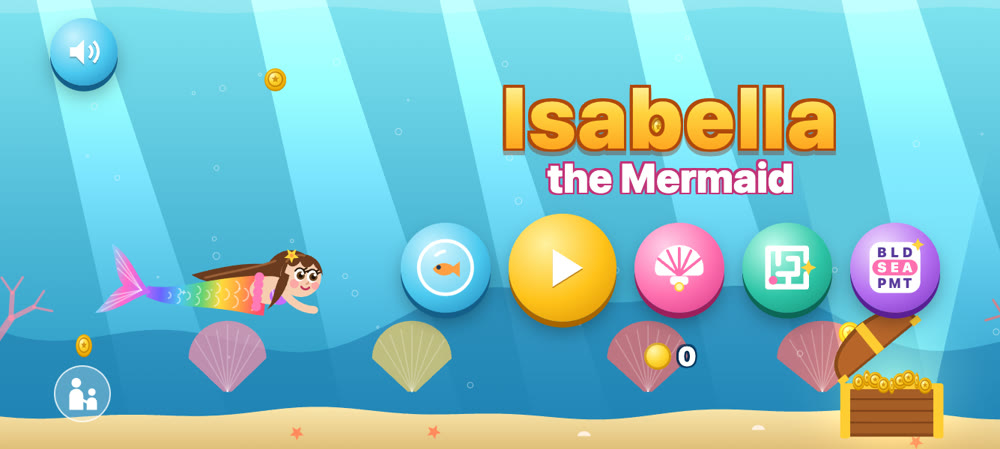
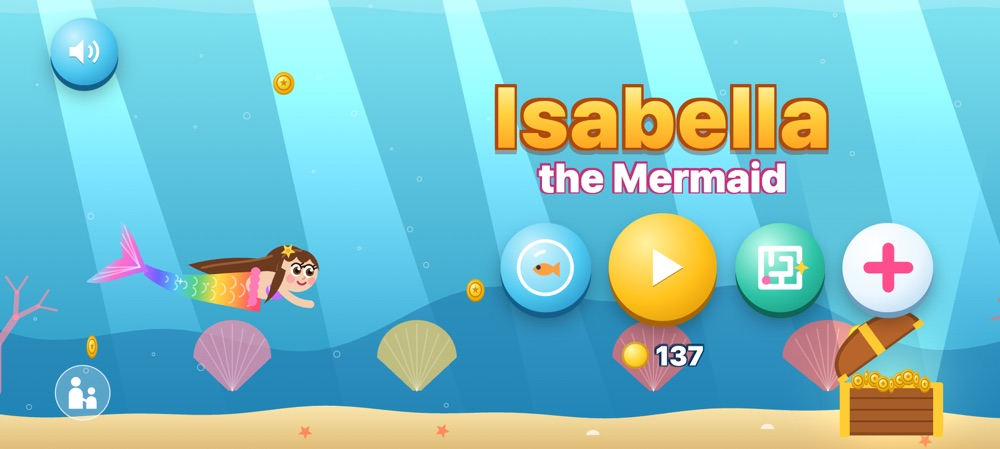
Snapshot of private 1917e08

diff --git a/site/index.html b/site/index.html
@@ -13,27 +13,31 @@
   <div class="wrap">
     <div class="brand"><img src="icon.png" alt=""> Isabella Ocean</div>
     <h1>Ocean games for little ones.<br>No ads. No accounts.</h1>
-    <p class="lead">Five calm, colourful games for kids aged 3 to 8 on the Solana Seeker. They play offline, nothing about your child is collected, and nothing pops up asking them to buy things.</p>
+    <p class="lead">Nine calm, colourful games for kids aged 3 to 8 on the Solana Seeker. They play offline, nothing about your child is collected, and nothing pops up asking them to buy things.</p>
     <ul class="pills"><li>Ages 3–8</li><li>Plays offline</li><li>No ads, no tracking</li><li>No reading needed</li></ul>
-    <img class="shot" src="img/title.jpg" alt="The Isabella Ocean title screen: Isabella the mermaid with five game buttons">
+    <img class="shot" src="img/title.jpg" alt="The Isabella Ocean title screen: Isabella the mermaid, a big Play button, two game buttons and a plus button for more games">
   </div>
 </header>
 
 <main class="wrap">
   <section>
-    <h2>Five games</h2>
+    <h2>Nine games</h2>
     <div class="grid">
       <div class="card"><img src="img/pop.jpg" alt="Bubble Party: a fish bubble dragged home to the fish on the sand"><h3>Bubble Party <span class="age">3–5</span></h3><p>Drag each sea creature's bubble home to its picture on the sand. Ten saved make a coin, and every level ends in a treasure chest. Leave the grumpy ones be!</p></div>
       <div class="card"><img src="img/title.jpg" alt="Isabella the Mermaid"><h3>Isabella the Mermaid <span class="age">5–8</span></h3><p>Swim through 20 levels, find the key and open the treasure chest. Ten levels are free.</p></div>
       <div class="card"><img src="img/match.jpg" alt="Shell Match: a memory game with clam shells"><h3>Shell Match <span class="age">5–8</span></h3><p>A memory game with clam shells, from 2 to 10 pairs, with stars for fewer mistakes.</p></div>
       <div class="card"><img src="img/maze.jpg" alt="Coral Maze: a big coral maze with keys, gates and currents"><h3>Coral Maze <span class="age">5–8+</span></h3><p>Help Isabella swim out of coral mazes. Twenty Easy levels, then twenty big Hard ones with keys, gates, currents and dark water.</p></div>
       <div class="card"><img src="img/words.jpg" alt="Sea Words: a word search where every word has its picture"><h3>Sea Words <span class="age">5–8</span></h3><p>A picture word search: find TURTLE, PEARL or CHEST by drawing a line. Easy, medium and hard, and a new puzzle every time.</p></div>
+      <div class="card"><img src="img/blocks.jpg" alt="Treasure Blocks: sea blocks sinking into a well in front of a misty picture of Isabella"><h3>Treasure Blocks <span class="age">5–8+</span></h3><p>Slide and turn the sinking sea blocks to fill a row. Every row cleared pays a coin and lifts the mist from a picture of Isabella. Easy, medium and hard, and Easy never ends.</p></div>
+      <div class="card"><img src="img/jigsaw.jpg" alt="Sea Jigsaw: a half-finished jigsaw of reef fish, with loose pieces waiting in a tray"><h3>Sea Jigsaw <span class="age">3–8</span></h3><p>Thirty sea pictures cut into real jigsaw pieces, from 4 pieces up to 40. Drag a piece near its place and it snaps home. No piece can be lost.</p></div>
+      <div class="card"><img src="img/dash.jpg" alt="Splash Dash: Isabella swimming along the surface at sunset, past kelp, a gull and a sailing boat"><h3>Splash Dash <span class="age">5–8</span></h3><p>Tilt the phone to steer Isabella along the surface, past rocks, kelp and boats, to the treasure chest. Twenty courses, and a button to go faster.</p></div>
+      <div class="card"><img src="img/catch.jpg" alt="Sea Catch: Isabella catching a whale's bubble in the shell on her head"><h3>Sea Catch <span class="age">3–8</span></h3><p>Slide Isabella left and right to catch the falling sea friends in her shell, and dodge the grumps. Ten levels, and none of them can be failed.</p></div>
     </div>
   </section>
 
   <section>
     <h2>Unlock everything, your way</h2>
-    <p>Bubble Party, Shell Match, Coral Maze, Sea Words and Isabella's first ten levels are free. A grown-up can unlock the rest behind a parent gate (press and hold, then a quick multiplication), so children never see a wallet or a payment.</p>
+    <p>Eight of the nine games are free from start to finish, and so are the first ten levels of Isabella the Mermaid. The only thing to unlock is her second world, levels 11 to 20. A grown-up unlocks it behind a parent gate (press and hold, then a quick multiplication), so children never see a wallet or a payment.</p>
     <div class="two">
       <div class="card opt">
         <h3>Stake 1 SOL, get it back any time</h3>
@@ -48,7 +52,7 @@
       </div>
       <div class="card opt pay">
         <h3>Or pay once</h3>
-        <p>US$15, one time, with no subscription.</p>
+        <p>US$4.99, one time, with no subscription.</p>
         <ul class="tick">
           <li>Pay with SOL, USDC or another token your wallet holds; it is converted to the exact price.</li>
           <li>You see the exact amount in your wallet before you approve.</li>

diff --git a/web/payments.js b/web/payments.js
@@ -685,7 +685,7 @@
       '" font-family="sans-serif" font-size="' + (text.length > 3 ? 15 : 19) + '" font-weight="700" fill="#fff" text-anchor="middle">' + text + '</text></svg>');
   }
 
-  function usdcUnits() { return BigInt(Math.round(Number(cfg.priceUsd) * 1e6)); } // USDC has 6 decimals
+  function usdcUnits() { return entitlement().priceUnits(6); } // USDC has 6 decimals; exact base units (US$4.99 -> 4990000n), the same amount the purchase check requires
   function normalizeMint(mint) { return !mint || mint === 'SOL' ? SOL_MINT : String(mint); }
   function referenceMeta(reference) { return { pubkey: new PublicKey(reference), isSigner: false, isWritable: false }; }
   /** A 0-lamport transfer to the merchant that carries the read-only reference key (Solana Pay style). */
@@ -811,7 +811,7 @@
     const mint = new PublicKey(m.usdcMint);
     const merchantAta = new PublicKey(m.usdcAta);
     const { decimals, tokenProgram } = await mintDecimals(c, mint);
-    const amount = BigInt(Math.round(Number(cfg.priceUsd) * 10 ** decimals));
+    const amount = entitlement().priceUnits(decimals);
     const source = splToken.getAssociatedTokenAddressSync(mint, owner, true, tokenProgram);
     if (!skipChecks) {
       const [bal, dest] = await Promise.all([c.getTokenAccountBalance(source, 'confirmed').catch(() => null), rpc(() => c.getAccountInfo(merchantAta, 'confirmed'), 'merchant')]);
@@ -941,7 +941,7 @@
           const res = await rpc(() => c.getParsedTokenAccountsByOwner(owner, { mint: new PublicKey(m.usdcMint) }, 'confirmed'), 'token accounts');
           const raw = res.value.reduce((a, x) => a + BigInt(x.account.data.parsed.info.tokenAmount.amount), 0n);
           list[1].balance = Number(raw) / 1e6;
-          list[1].enough = list[1].balance >= list[1].amountNeeded;
+          list[1].enough = raw >= usdcUnits();
         }
       }
       return list;
@@ -979,7 +979,8 @@
       const amountNeeded = isUsdc ? Number(cfg.priceUsd) : Math.ceil((Number(cfg.priceUsd) / t.usdPrice) * 1.01 * unit) / unit; // 1% for slippage
       const balance = Number(h.raw) / unit;
       const reserveSol = t.id === SOL_MINT ? 0.005 : 0; // fees and a possible token account
-      out.push({ mint: t.id, symbol: t.symbol, logo: logoFor(t.id, t.symbol), decimals: t.decimals, usdPrice: t.usdPrice, amountNeeded, balance, enough: balance >= amountNeeded + reserveSol });
+      const enough = isUsdc ? h.raw >= entitlement().priceUnits(t.decimals) : balance >= amountNeeded + reserveSol; // USDC is compared in base units
+      out.push({ mint: t.id, symbol: t.symbol, logo: logoFor(t.id, t.symbol), decimals: t.decimals, usdPrice: t.usdPrice, amountNeeded, balance, enough });
     }
     const rank = (x) => (x.mint === SOL_MINT ? 2 : x.mint === m.usdcMint ? 1 : 0);
     return out.sort((a, b) => (b.enough - a.enough) || (rank(b) - rank(a)) || (b.balance * b.usdPrice - a.balance * a.usdPrice));

diff --git a/web/entitlement.js b/web/entitlement.js
@@ -22,6 +22,7 @@
  * sha256("isabella-purchase-v1" + walletBase58) -> 32 bytes -> public key. refresh() finds purchases with
  * getSignaturesForAddress(reference) and accepts a finalized, successful transaction that raised the
  * merchant's USDC account by >= priceUsd, or (devnet only) the merchant wallet by >= devnetPriceSol.
+ * The test is "at least the price", so a purchase made at an earlier, higher price still counts.
  */
 (function () {
   'use strict';
@@ -126,6 +127,16 @@
     return BigInt(Math.round(Number(cfg.stake.unlockThreshold) * 10 ** decimals));
   }
 
+  /**
+   * config.priceUsd in a token's base units, exactly. The price is read as a decimal string and never
+   * multiplied as a float: 4.99 with 6 decimals is 4990000n. payments.js charges this same amount.
+   */
+  function priceUnits(decimals) {
+    const m = /^(\d+)(?:\.(\d*))?$/.exec(String(cfg.priceUsd).trim());
+    if (!m || (m[2] || '').length > decimals) return BigInt(Math.round(Number(cfg.priceUsd) * 10 ** decimals)); // exponent form, or finer than the token
+    return BigInt(m[1] + (m[2] || '').padEnd(decimals, '0'));
+  }
+
   /** Did this transaction pay the merchant enough (and carry the reference)? Returns { kind, amount } or null. */
   function verifyPurchaseTransaction(tx, referenceBase58) {
     if (!tx || !tx.meta || tx.meta.err) return null;
@@ -142,7 +153,7 @@
         if (!isMerchant) continue;
         const before = pre.find((x) => x.accountIndex === pb.accountIndex);
         const delta = BigInt(pb.uiTokenAmount.amount) - BigInt(before ? before.uiTokenAmount.amount : '0');
-        const need = BigInt(Math.round(Number(cfg.priceUsd) * 10 ** pb.uiTokenAmount.decimals));
+        const need = priceUnits(pb.uiTokenAmount.decimals);
         if (delta >= need) return { kind: 'usdc', amount: Number(delta) / 10 ** pb.uiTokenAmount.decimals };
       }
     }
@@ -305,6 +316,7 @@
     findPurchase,
     poolTokenBalance,
     verifyPurchaseTransaction,
+    priceUnits,
     STORE_KEY,
     _env: env,
   };

diff --git a/site/privacy.html b/site/privacy.html
@@ -12,7 +12,7 @@
 <main class="wrap">
 <article class="doc">
   <h1>Privacy policy</h1>
-  <p class="updated">Last updated 3 October 2026</p>
+  <p class="updated">Last updated 4 October 2026</p>
 
   <p>Isabella Ocean ("we") makes games for children aged 3 to 8 on the Solana Seeker phone. We built them to collect nothing about your child or your family. This page explains exactly what happens.</p>
 
@@ -23,10 +23,10 @@
   <p>Game progress (levels, stars and coins) and your unlock status are saved only on the phone, inside the app. They are deleted when you uninstall the app.</p>
 
   <h2>When a grown-up connects a wallet</h2>
-  <p>Unlocking the full games is optional and happens only behind a parent gate. If a grown-up connects a Solana wallet:</p>
+  <p>Unlocking the extra levels is optional and happens only behind a parent gate. If a grown-up connects a Solana wallet:</p>
   <ul>
     <li>The app learns that wallet's public address, which is already public on the Solana blockchain. It keeps it on the phone only.</li>
-    <li>To check whether the games are unlocked, the app asks a Solana network server (an "RPC" server) about that address's public balances and past payments to us. Like any website, that server sees the request and the phone's internet address. We do not run that server and do not receive this information.</li>
+    <li>To check whether the extra levels are unlocked, the app asks a Solana network server (an "RPC" server) about that address's public balances and past payments to us. Like any website, that server sees the request and the phone's internet address. We do not run that server and do not receive this information.</li>
     <li>Staking and payments are blockchain transactions you approve in your own wallet. They are public on the Solana blockchain by design.</li>
   </ul>
 

diff --git a/test/paywall/drive.js b/test/paywall/drive.js
@@ -172,7 +172,7 @@ async function freeTierGateAndStake() {
   check((await on('pwPay')) && !(await on('pwGate')), `right answer (${p2.q} = ${p2.ans}) opens the paywall`);
 
   const pw = await text('#pwPayBody');
-  const need = ['Stake 1 SOL', 'get it back any time', 'Pay US$15 once', 'any token', 'staking rewards (about 5% a year)',
+  const need = ['Stake 1 SOL', 'get it back any time', 'Pay US$4.99 once', 'any token', 'staking rewards (about 5% a year)',
     "value still moves with SOL's price", 'Getting your SOL back locks World 2 again', 'Instant exit costs 0.3%', 'Free exit takes about 2 days'];
   const missing = need.filter((s) => !pw.includes(s));
   check(!missing.length, `paywall shows both options and the plain disclosures${missing.length ? `; missing: ${missing.join(' | ')}` : ''}`);
@@ -247,13 +247,13 @@ async function manageStakedAndExitNow() {
 }
 
 async function buyDisconnectRestore() {
-  console.log('\n# Pay US$15 once -> unlocked; disconnect; restore purchase');
+  console.log('\n# Pay US$4.99 once -> unlocked; disconnect; restore purchase');
   await cdp.tap(tile(11)); await cdp.tap('#pwAskGo');
   await passGate();
   await cdp.tap('#pwPay [data-act=buy]');
   await cdp.waitFor("document.querySelectorAll('#pwPay .tok').length", 5000, 'the token list');
   const toks = await ev("[...document.querySelectorAll('#pwPay .tok')].map((b) => b.textContent.trim())");
-  check(toks.length === 2 && toks[0].includes('SOL') && toks[1] === '15 USDC', `payableTokens -> pick a token (${toks.join(', ')})`);
+  check(toks.length === 2 && toks[0].includes('SOL') && toks[1] === '4.99 USDC', `payableTokens -> pick a token (${toks.join(', ')})`);
   await audit('pick a token');
   await shot('pay-pick-token');
   await cdp.tap('#pwPay [data-act=pick][data-i="1"]');

diff --git a/site/terms.html b/site/terms.html
@@ -12,12 +12,12 @@
 <main class="wrap">
 <article class="doc">
   <h1>Terms of use</h1>
-  <p class="updated">Last updated 3 October 2026</p>
+  <p class="updated">Last updated 4 October 2026</p>
 
   <p>These terms cover the Isabella Ocean app ("the app") and its optional unlocks. By using the app you agree to them. If you are unlocking the games, you confirm you are an adult.</p>
 
   <h2>The app</h2>
-  <p>We give you a personal, non-transferable licence to use the app on your devices. Some levels and games are free; the rest unlock in one of the two ways below.</p>
+  <p>We give you a personal, non-transferable licence to use the app on your devices. Eight of the nine games, and the first ten levels of Isabella the Mermaid, are free. Her second world (levels 11 to 20) unlocks in one of the two ways below.</p>
 
   <h2>Unlock option 1: stake 1 SOL</h2>
   <ul>
@@ -32,7 +32,7 @@
 
   <h2>Unlock option 2: pay once</h2>
   <ul>
-    <li>A one-time payment of US$15, made in SOL, USDC or another supported token and converted on the Solana network to the exact price in USDC. Your wallet shows the exact amount before you approve.</li>
+    <li>A one-time payment of US$4.99, made in SOL, USDC or another supported token and converted on the Solana network to the exact price in USDC. Your wallet shows the exact amount before you approve.</li>
     <li>A paid unlock does not expire. If you reinstall the app, connecting the same wallet restores it.</li>
     <li>Payments are final, except where the law gives you a right to a refund.</li>
   </ul>

diff --git a/web/paymock.js b/web/paymock.js
@@ -23,7 +23,7 @@
   const cfg = window.IsabellaConfig = window.IsabellaConfig || {
     flavor: window.IsabellaFlavor || 'store',
     cluster: 'devnet', chain: 'solana:devnet', rpcUrl: 'https://api.devnet.solana.com',
-    freeLevels: 10, priceUsd: 15,
+    freeLevels: 10, priceUsd: 4.99,
     stake: { programId: '', pool: '', mint: '', depositSol: 1.01, unlockThreshold: 0.99, instantFeePct: 0.3 },
     merchant: { wallet: '', usdcMint: '', usdcAta: '' },
     jupiter: { apiBase: 'https://api.jup.ag', apiKey: '' },
@@ -48,7 +48,7 @@
     walletAvailable: true,
     publicKey: null,
     poolTokens: 0,          // on-chain: the parent's pool tokens
-    purchased: false,       // on-chain: a finalized US$15 payment with the parent's reference key
+    purchased: false,       // on-chain: a finalized US$4.99 payment with the parent's reference key
     pending: [],            // on-chain: the parent's deactivating stake accounts {stakeAccount, lamports, readyAt}
     cache: null,            // the phone's last SUCCESSFUL check {unlocked, via, wallet, checkedAt}
     lastCheckFailed: false,

diff --git a/web/paywall.js b/web/paywall.js
@@ -1,5 +1,5 @@
 /* Isabella the Mermaid — the free tier and the grown-ups' screens (store flavor only).
- * World 1 (levels 1-10) is free. World 2 opens when a grown-up stakes 1 SOL or pays US$15 once,
+ * World 1 (levels 1-10) is free. World 2 opens when a grown-up stakes 1 SOL or pays US$4.99 once,
  * through window.Wallet / IsabellaPay / IsabellaEntitlement (Contract 2 in docs/kids-bundle/BUILD-PLAN.md).
  * - Kids only ever see pictures: a gold padlock, and "ask a grown-up" with a big button.
  * - Every wallet action sits behind the parent gate: hold 3 s, then a 2-digit x 1-digit multiplication.
@@ -28,7 +28,7 @@
   const W = () => window.Wallet || null;
   const canPay = () => !!(E() && Pay() && W());
   const freeLevels = () => +cfg().freeLevels || 10;
-  const priceUsd = () => +cfg().priceUsd || 15;
+  const priceUsd = () => +cfg().priceUsd || 4.99;
   const depositSol = () => +(cfg().stake && cfg().stake.depositSol) || 1.01;
   const feePct = () => { const f = cfg().stake && cfg().stake.instantFeePct; return f != null ? +f : 0.3; };
 

diff --git a/web/config.js b/web/config.js
@@ -15,7 +15,7 @@ window.IsabellaConfig = {
   chain: 'solana:devnet',
   rpcUrl: 'https://api.devnet.solana.com',
   freeLevels: 10,
-  priceUsd: 15,
+  priceUsd: 4.99, // US dollars, at most 6 decimal places; charged as exactly 4,990,000 USDC base units
   stake: {
     programId: 'DPoo15wWDqpPJJtS2MUZ49aRxqz5ZaaJCJP4z8bLuib', // the stake-pool program that owns `pool` (devnet: SPoo1Ku8… or DPoo15wW…); empty = trust the pool account's owner
     pool: 'D5k3bxRYCWizSToy7C3WzQoPBXYNAUZ78Lo2vvFR9q7a', // stake pool account (base58)

diff --git a/README.md b/README.md
@@ -7,18 +7,17 @@ of two ways:
 
 - **Stake 1 SOL** into our own SPL stake pool. The parent keeps the OCEAN pool tokens and can take
   the SOL back any time. The pool's fee is 100% of the staking rewards; that is the price.
-- **Pay US$15 once** in any Jupiter-verified token, SKR included, swapped so that exactly 15 USDC
-  arrives.
+- **Pay US$4.99 once** in any Jupiter-verified token, SKR included, swapped so that exactly 4.99
+  USDC arrives.
 
 There are no accounts, no ads, no tracking and no backend: the unlock is read from the chain. It
 runs on devnet today (see [Status](#status)).
 
 - **Demo video** (2:48), filmed on a real Seeker with the Seed Vault Wallet on devnet:
-  <https://youtu.be/__YTxNECcDc>
+  <https://youtu.be/__YTxNECcDc>. It was filmed on an earlier build, so it shows five games and a
+  US$15 price; the app now has nine games and costs US$4.99.
 - **Website:** <https://isabellaocean-app.pages.dev>
 - **APK**, the devnet test build: <https://isabellaocean-app.pages.dev/isabella-ocean.apk>
-- **Nine games in the source, five in the APK:** the source here has nine games; the hosted test
-  APK and the demo video are the earlier five-game build.
 - **Docs:** [`docs/`](docs/README.md), one page per topic: [games](docs/GAMES.md),
   [payments](docs/PAYMENTS.md), [stake pool](docs/POOL.md), [Android](docs/ANDROID.md),
   [website](docs/SITE.md), [demo](docs/DEMO.md), [testing](docs/TESTING.md)
@@ -51,7 +50,7 @@ or on Solana:
   transaction when it is due.
 - **Jupiter ExactOut** ([`web/payments.js`](web/payments.js)). Pay once lists the Jupiter-verified
   tokens in the wallet (SKR is one) and builds a Metis Swap v1 ExactOut swap into our USDC account,
-  so exactly 15 USDC arrives. With no ExactOut route it falls back to ExactIn plus an exact USDC
+  so exactly 4.99 USDC (4,990,000 base units) arrives. With no ExactOut route it falls back to ExactIn plus an exact USDC
   transfer, in one transaction. This is the mainnet path, tested read-only against mainnet.
 - **Entitlement from the chain, no backend** ([`web/entitlement.js`](web/entitlement.js)). Staked:
   World 2 is open while the wallet holds at least 0.99 OCEAN, re-checked every 5 minutes and on
@@ -119,7 +118,7 @@ gate.
    their gold padlocks until a grown-up unlocks them.
 5. **Unlock World 2:** tap Play (if it still opens on World 1, repeat step 4) and tap a level with
    a gold padlock → Grown-ups → hold for 3 seconds, then answer a multiplication → **Stake 1 SOL**
-   or **Pay US$15 once** → approve in the wallet. To try both ways, stake first: a purchase is
+   or **Pay US$4.99 once** → approve in the wallet. To try both ways, stake first: a purchase is
    permanent.
 
 What happens next:
@@ -127,7 +126,7 @@ What happens next:
 - **Stake** deposits 1.01 SOL and mints about 1.01 OCEAN. World 2 opens once it confirms.
 - **To get the SOL back,** use the Grown-ups button on the title screen: "Get my SOL back now"
   costs 0.3%, and "free" takes about 2 days and then a Claim. Either way World 2 locks again.
-- **Pay once on devnet** sends 0.1 devnet SOL (or 15 devnet USDC) to the merchant wallet instead
+- **Pay once on devnet** sends 0.1 devnet SOL (or 4.99 devnet USDC) to the merchant wallet instead
   of swapping through Jupiter. A purchase never expires, and Restore purchase finds it after a
   reinstall.
 

diff --git a/docs/PAYMENTS.md b/docs/PAYMENTS.md
@@ -8,15 +8,15 @@ behind the parent gate:
    - While the wallet holds at least 0.99 OCEAN, World 2 is open.
    - The pool keeps 100% of the staking rewards; that is the price.
    - Exit instantly (0.3% fee), or for free in about 2 days, then claim. Either way World 2 locks again.
-2. **Pay US$15 once,** in any Jupiter-verified token.
-   - On mainnet, Jupiter swaps it so exactly 15 USDC reaches our account.
-   - On devnet, the demo sends 0.1 SOL to the merchant wallet instead.
+2. **Pay US$4.99 once,** in any Jupiter-verified token (the price was US$15 until 4 Oct 2026).
+   - On mainnet, Jupiter swaps it so exactly 4.99 USDC reaches our account.
+   - On devnet, the demo sends 0.1 SOL to the merchant wallet instead, or 4.99 devnet USDC.
    - A purchase never expires, and it can be restored after a reinstall.
 
 We never hold a parent's SOL; the pool program does, and only OCEAN holders can withdraw it.
 
 ## What the parent sees
-- **Unlock screen** (`pwPay`): Stake 1 SOL or Pay US$15 once, with the plain-English terms beside each.
+- **Unlock screen** (`pwPay`): Stake 1 SOL or Pay US$4.99 once, with the plain-English terms beside each.
   - Tokens without enough balance are greyed out.
   - Every cost is shown before the wallet opens.
 - **Grown-ups screen** (`pwManage`):
@@ -46,6 +46,8 @@ We never hold a parent's SOL; the pool program does, and only OCEAN holders can 
   - Each purchase transaction carries a reference key, `sha256("isabella-purchase-v1" + wallet)`.
   - The app finds it again with `getSignaturesForAddress`, so Restore works after a reinstall.
   - Purchases never lapse offline.
+  - **What counts as a purchase:** a finalized, successful transaction that carries the reference key and raises the merchant's USDC account by at least the price, or, on devnet only, the merchant wallet by at least `devnetPriceSol` (0.1 SOL).
+  - **Earlier purchases still count.** The test is "at least today's price", so a 15 USDC purchase made before the price fell to US$4.99 is still a purchase, and so is every 0.1 SOL devnet purchase. Raising the price later would stop smaller old purchases from counting.
 - **Family flavor:** always unlocked, and it never touches the network.
 
 ## Transactions
@@ -55,6 +57,7 @@ We never hold a parent's SOL; the pool program does, and only OCEAN holders can 
 - **Network retries:**
   - `NETWORK_RE` retries transient errors three times, including "408 Request Time-out" from the public RPC (fixed 3 Oct).
   - Program errors fail at once.
+- **The price in base units:** `priceUsd` (4.99) is turned into USDC base units by `IsabellaEntitlement.priceUnits(6)`, which reads the decimal digits and never multiplies a float: exactly 4,990,000. The ExactOut quote, the fallback transfer, the devnet USDC transfer and the purchase check all use that one function.
 - **Jupiter (mainnet):**
   - Metis Swap v1 ExactOut, with `destinationTokenAccount` set to our USDC account.
   - Without an API key the limit is 0.5 requests per second.

diff --git a/docs/DEMO.md b/docs/DEMO.md
@@ -4,8 +4,8 @@
 | Video | Where | Status |
 |---|---|---|
 | Emulator backup (3:46, 2400×1080) | `.local/demo/isabella-ocean-demo.mp4` (a 720p copy is `isabella-ocean-demo-720p.mp4`) | Done 2 Oct |
-| **The CLOCK IN demo, filmed on a real Seeker** (2:48, 1080p) | **https://youtu.be/__YTxNECcDc** (file: `.local/demo/isabella-ocean-seeker-demo.mp4`) | **Done 3 Oct.** Real Seed Vault Wallet on devnet: stake, play, instant exit, pay once. This is the video to submit unless version 2 replaces it. |
-| **Version 2 of the Seeker demo** (1:47, 1080p, narrated) | `.local/demo/isabella-ocean-seeker-demo-v2.mp4` (a 720p copy is `…-v2-preview.mp4`; `…-v2-captions.mp4` adds captions) | **Cut 3 Oct from the same take; not uploaded yet.** No rotation flips, the waits cut, no captions, and a voiceover. |
+| **The CLOCK IN demo, filmed on a real Seeker** (2:48, 1080p) | **https://youtu.be/__YTxNECcDc** (file: `.local/demo/isabella-ocean-seeker-demo.mp4`) | **Done 3 Oct.** Real Seed Vault Wallet on devnet: stake, play, instant exit, pay once. This is the video to submit unless version 2 replaces it. **It no longer matches the app:** it shows "Pay US$15 once" and the old title screen with four game buttons. |
+| **Version 2 of the Seeker demo** (1:47, 1080p, narrated) | `.local/demo/isabella-ocean-seeker-demo-v2.mp4` (a 720p copy is `…-v2-preview.mp4`; `…-v2-captions.mp4` adds captions) | **Cut 3 Oct from the same take; not uploaded yet.** No rotation flips, the waits cut, no captions, and a voiceover. **It no longer matches the app either:** same footage, and the voiceover says the old US$15 price. |
 
 **What the emulator backup shows:**
 1. title card → the three free games;
@@ -19,6 +19,10 @@ visible label, and the wallet screens are zoomed so they can be read. **One blem
 wallet's first connect screen reads "Status: Verification failed". That is its 3-second identity
 check timing out on the emulator's slow first connection; the later steps were unaffected. The
 Seeker recording, which uses the real Seed Vault Wallet, has no such issue.
+
+**Since 4 Oct 2026 the app has nine games and the one-off price is US$4.99.** Every video above was
+made before that. The captions and narration in `test/e2e/edit-seeker.js` and `edit-seeker-v2.js`
+say US$15 because the footage shows US$15; they change only with a new take.
 
 ## Recording on a real Seeker
 ```bash
@@ -81,6 +85,7 @@ then sends it 1.2 devnet SOL once.
   - staking yield of 4.8–5.5%, about 0.05 SOL a year per family;
   - 0% store commission.
 - **Version 6 (3 Oct):** five games, the Seeker proof image and the demo video link. The last slide gives the site, the code, the demo and a contact.
+- **Out of date since 4 Oct:** the deck still says five games and US$15. Its games, what's-free, pay-once and economics slides need the nine games and US$4.99 before it is exported.
 
 ## For judges trying the APK on a Seeker (draft)
 1. Install the APK. The free games and Isabella's World 1 work offline.
